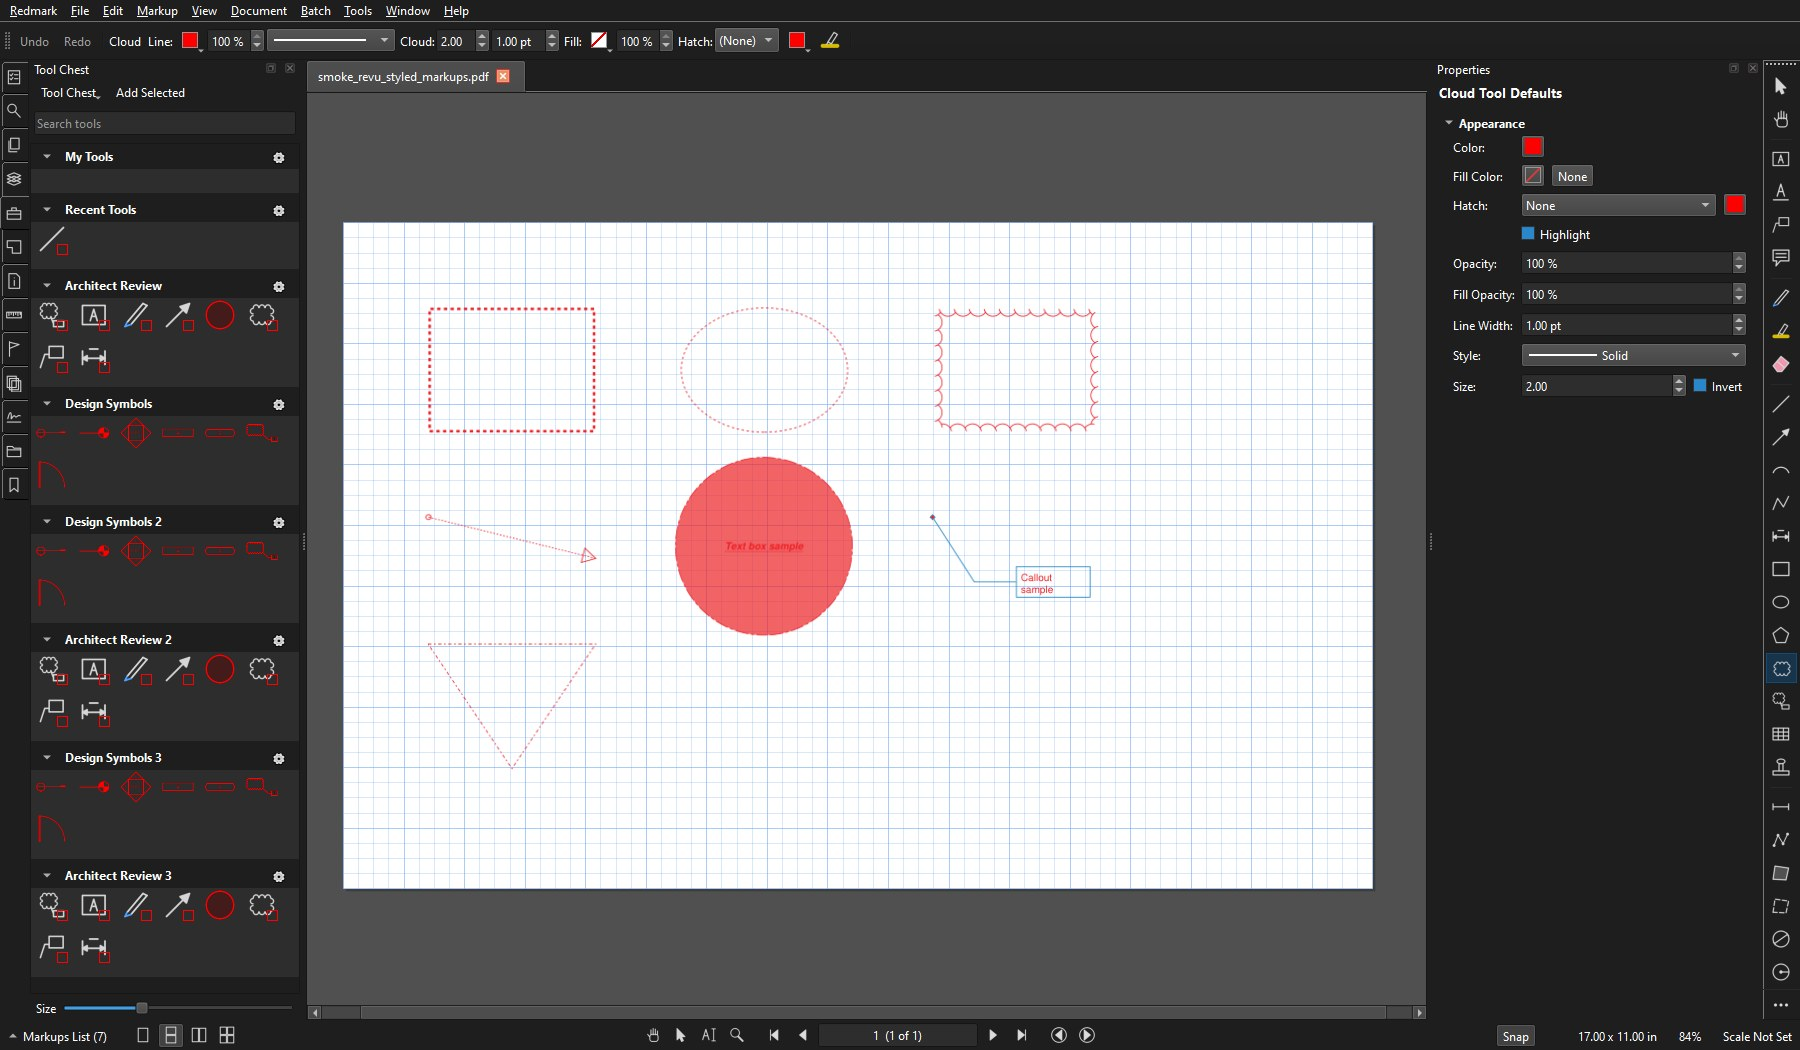
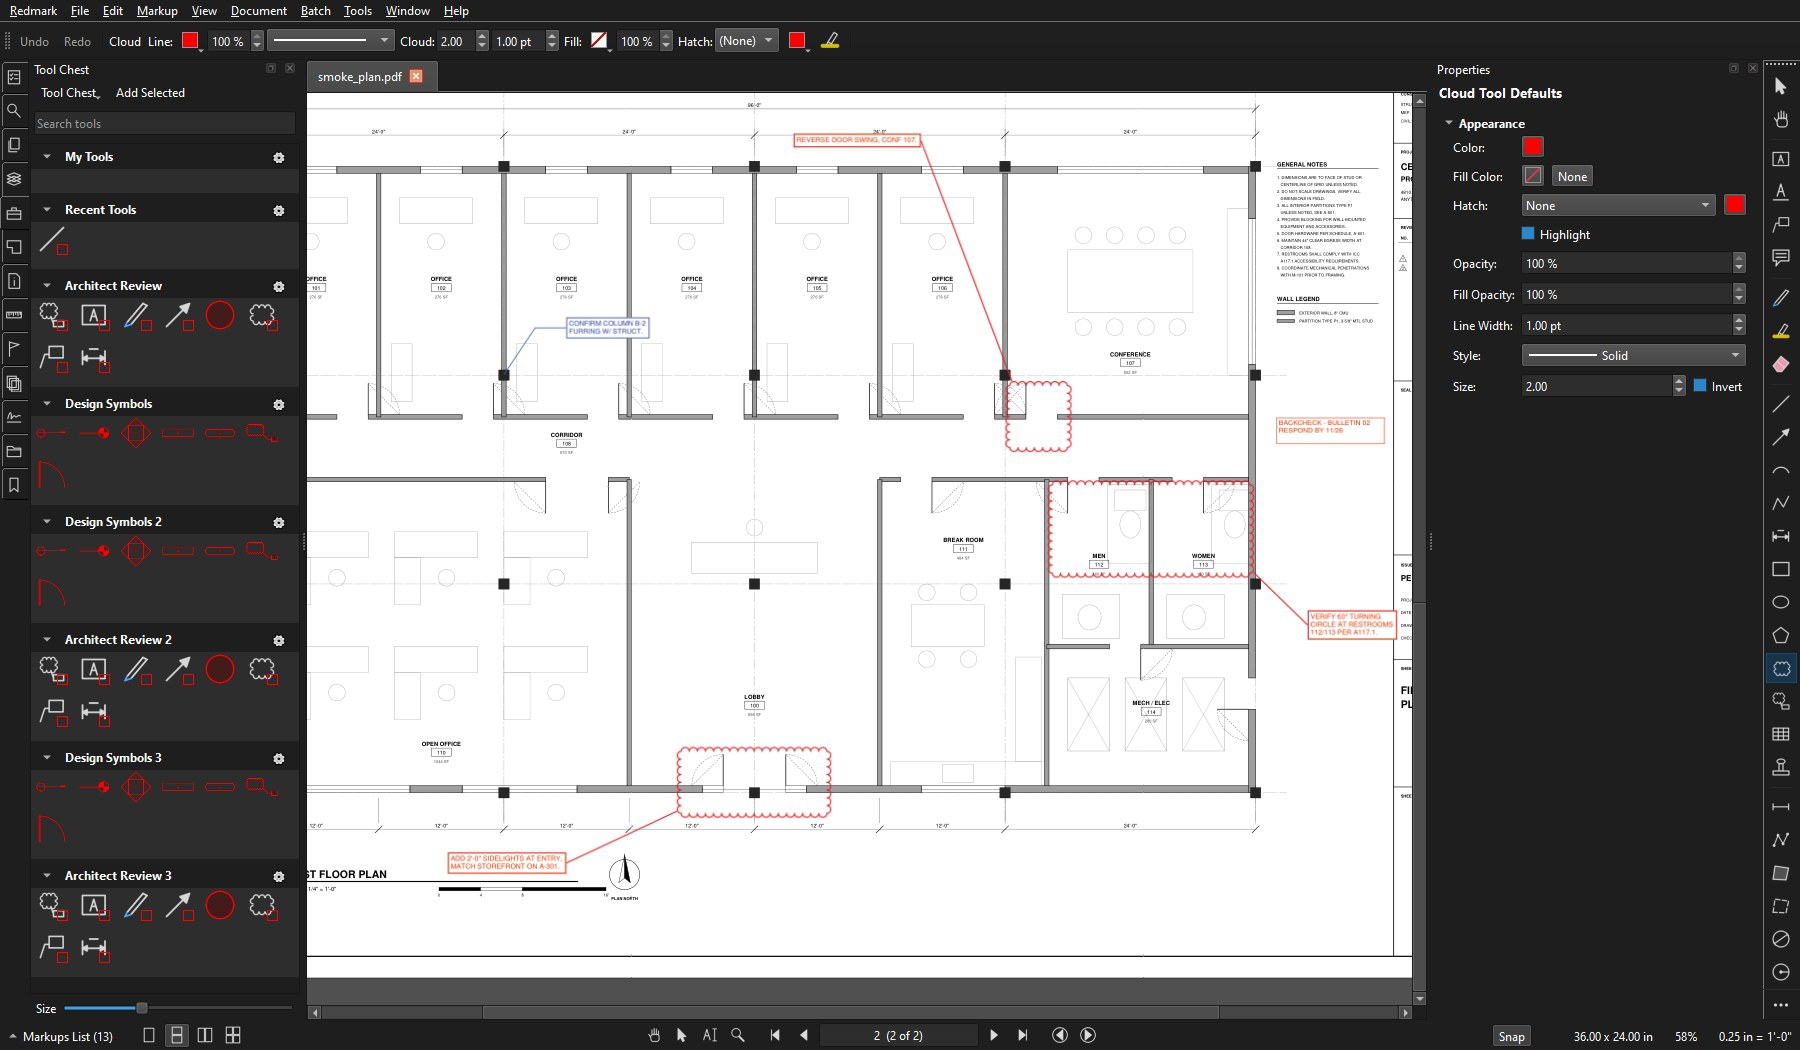
New Redmark screenshots, SnipGif and Soundboard Sender visuals

diff --git a/index.html b/index.html
@@ -199,8 +199,9 @@ footer{border-top:1px solid var(--border);padding:32px 0 48px;color:var(--muted)
   <h2>More projects &amp; small tools</h2>
   <p class="sub">Quick builds that solve one annoyance well.</p>
   <div class="grid">
-    <div class="card" data-cat="app"><div class="icon"><img src="assets/snipgif-icon.png" alt=""></div><h4>SnipGif</h4><p>Hotkey, drag a region, and a GIF lands on your clipboard. Trim and resize after.</p><ul class="tags"><li>Python</li><li>Windows</li></ul></div>
+    <div class="card" data-cat="app"><div class="icon"><img src="assets/snipgif-icon.png" alt=""></div><h4>SnipGif</h4><p>Hotkey, drag a region, and a GIF lands on your clipboard. Trim and resize after.</p><div class="shot"><img src="assets/snipgif-window.png" alt="SnipGif editor: a captured clip with crop handles, trim timeline and export settings"></div><ul class="tags"><li>Python</li><li>Windows</li></ul></div>
     <div class="card" data-cat="app"><div class="icon"><img src="assets/promptstash-icon.png" alt=""></div><h4>PromptStash</h4><p>Browser extension: save your best prompts once, insert them into any chat box.</p><div class="shot"><img src="assets/promptstash-popup.png" alt="PromptStash popup with five saved prompts"></div><ul class="tags"><li>Chrome extension</li></ul></div>
+    <div class="card" data-cat="app"><div class="icon">S</div><h4>Soundboard Sender</h4><p>Discord bot: <code>/soundboard</code> lets you browse the soundboard sounds of every server you share with it, then posts the one you pick as an audio clip under your own name.</p><div class="shot"><img src="assets/soundboard-post.png" alt="A soundboard clip posted in a Discord channel as a playable audio file"></div><ul class="tags"><li>Python</li><li>Discord bot</li></ul></div>
     <div class="card" data-cat="app"><div class="icon">W</div><h4>Window tools</h4><p>Tray utility and extensions that tidy windows and tabs after idle time, across monitors.</p><ul class="tags"><li>Python</li><li>Extensions</li></ul></div>
   </div>
 </div></section>
